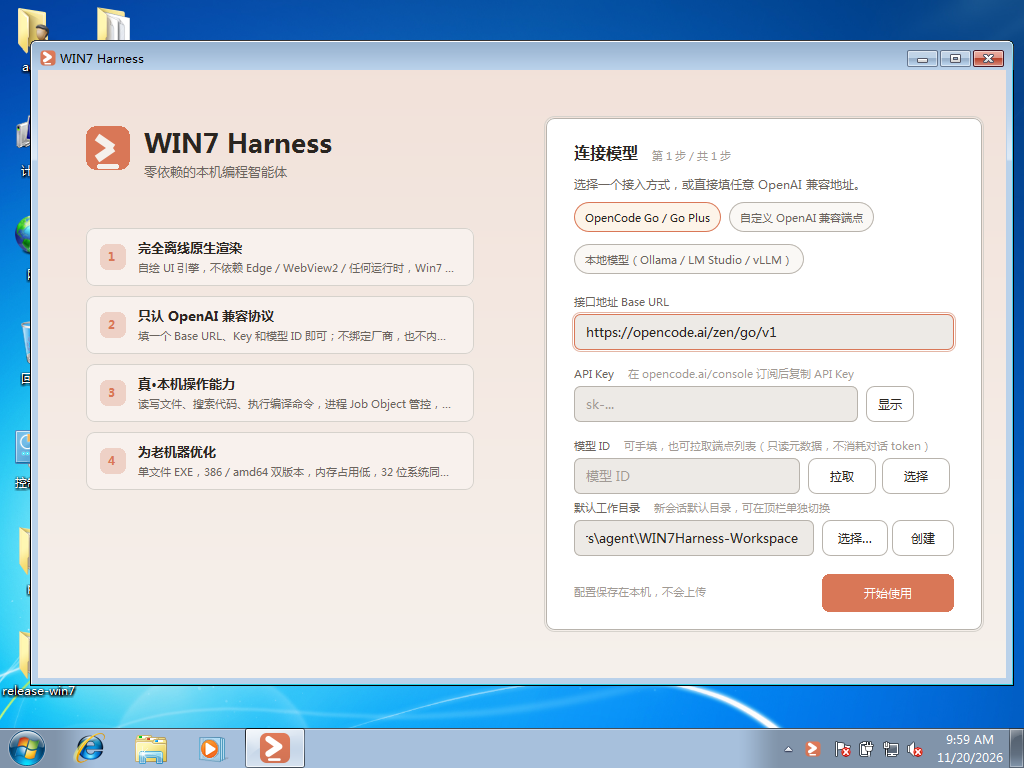
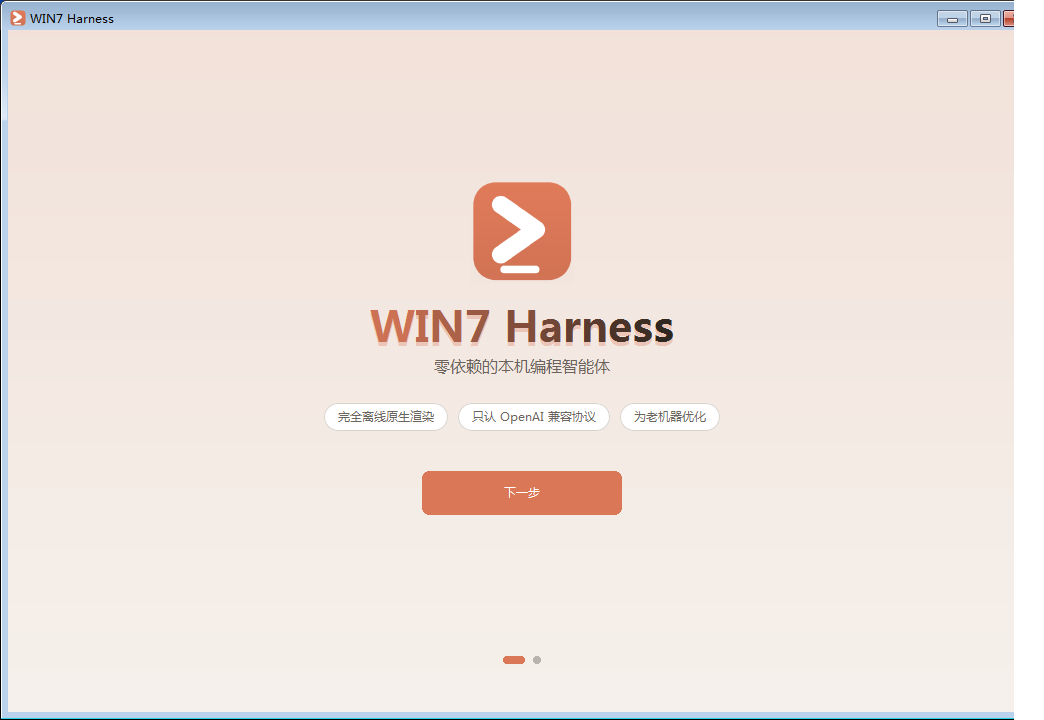
docs: adapt assets to redesigned onboarding and v2.0.0
Update banner version, refresh onboarding screenshots (welcome + connect), and sync Chinese/English README previews.

diff --git a/CHANGELOG.md b/CHANGELOG.md
@@ -7,6 +7,7 @@
 > 没有对应文档的版本（v1.12.0–v1.15.0、v1.18.0）不臆造内容，只标注缺口。
 
 ## [2.0.0] - 2026-11-22
+- 文档适配重做后的两步引导页：新增欢迎页与连接模型截图；banner 版本号更新为 v2.0.0。`n
 
 - **UI 2.0**：取消独立图标栏，改为一条 264px 侧栏；新建会话放在会话区顶部，全部会话/工作区/设置与工具依次放在侧栏底部；会话列表在所有页面保持可见。
 - 设置页按用途重分为 7 类（模型与上下文 / 界面与体验 / 权限与安全 / 网络与更新 / 预算与成本 / 自动化 / 工具与关于），所有按钮文案重新梳理，页头去掉重复 logo。

diff --git a/README.md b/README.md
@@ -47,9 +47,10 @@
 <p align="center"><sub>会话中心 · 设置与工具 · 深色主题设置</sub></p>
 
 <p align="center">
-  <img src="assets/screenshots/win7-onboarding.png" alt="Windows 7 SP1 上的首次启动界面" width="72%">
+  <img src="assets/screenshots/win7-onboarding.png" alt="Windows 7 SP1 上的欢迎页" width="49%">
+  <img src="assets/screenshots/onboarding-connect.png" alt="连接模型引导页" width="49%">
 </p>
-<p align="center"><sub>真实的 Windows 7 SP1 桌面环境</sub></p>
+<p align="center"><sub>重新设计的两步引导：品牌欢迎页 → 连接模型；左图为真实 Windows 7 SP1 桌面</sub></p>
 
 ---
 

diff --git a/README.en.md b/README.en.md
@@ -32,7 +32,8 @@
 </p>
 
 <p align="center">
-  <img src="assets/screenshots/win7-onboarding.png" alt="First run on Windows 7 SP1" width="72%">
+  <img src="assets/screenshots/win7-onboarding.png" alt="Welcome on Windows 7 SP1" width="49%">
+  <img src="assets/screenshots/onboarding-connect.png" alt="Connect model wizard" width="49%">
 </p>
 
 ## Why Windows 7
